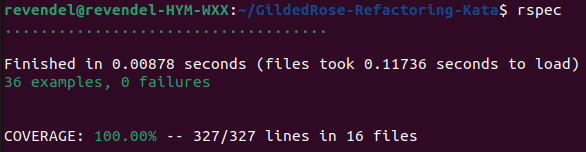
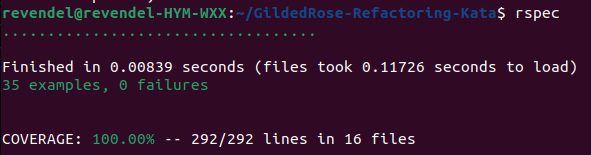
add ability to modify original array

Changed region(s): [[0.0, 0.3158, 1.0, 1.0], [0.0, 0.0, 0.9522, 0.1316], [0.0, 0.1842, 0.5529, 0.2895]]

diff --git a/spec/gilded_rose_spec.rb b/spec/gilded_rose_spec.rb
@@ -9,10 +9,10 @@ describe GildedRose do
     items = [Item.new('foo', 0, 0)]
     parsed_item = GildedRose.new(items).items[0]
 
-    expect(parsed_item.class).to eq CommonItem
-    expect(parsed_item.name).to eq 'foo'
-    expect(parsed_item.sell_in).to eq 0
-    expect(parsed_item.quality).to eq 0
+    expect(parsed_item[:type]).to eq CommonItem
+    expect(parsed_item[:item].name).to eq 'foo'
+    expect(parsed_item[:item].sell_in).to eq 0
+    expect(parsed_item[:item].quality).to eq 0
   end
 
   it '#add_item' do
@@ -21,8 +21,8 @@ describe GildedRose do
     gilded_rose.add_item Item.new('Aged Brie', 2, 0)
 
     expect(gilded_rose.items.size).to eq 2
-    expect(gilded_rose.items[1].class).to eq AgedBrieItem
-    expect(gilded_rose.items[1].name).to eq 'Aged Brie'
+    expect(gilded_rose.items[1][:type]).to eq AgedBrieItem
+    expect(gilded_rose.items[1][:item].name).to eq 'Aged Brie'
   end
 
   it '#update_quality' do
@@ -37,60 +37,42 @@ describe GildedRose do
       Item.new('Backstage passes to a TAFKAL80ETC concert', 5, 49),
       Item.new('Conjured Mana Cake', 3, 6)
     ]
-    parsed_items = GildedRose.new(items).update_quality
+    gr_items = GildedRose.new(items).update_quality
 
-    item0 = parsed_items[0]
-    expect(item0.class).to eq CommonItem
-    expect(item0.name).to eq '+5 Dexterity Vest'
-    expect(item0.sell_in).to eq 9
-    expect(item0.quality).to eq 19
+    expect(gr_items[0][:type]).to eq CommonItem
+    expect(items[0].sell_in).to eq 9
+    expect(items[0].quality).to eq 19
 
-    item1 = parsed_items[1]
-    expect(item1.class).to eq AgedBrieItem
-    expect(item1.name).to eq 'Aged Brie'
-    expect(item1.sell_in).to eq 1
-    expect(item1.quality).to eq 1
+    expect(gr_items[1][:type]).to eq AgedBrieItem
+    expect(items[1].sell_in).to eq 1
+    expect(items[1].quality).to eq 1
 
-    item2 = parsed_items[2]
-    expect(item2.class).to eq CommonItem
-    expect(item2.name).to eq 'Elixir of the Mongoose'
-    expect(item2.sell_in).to eq 4
-    expect(item2.quality).to eq 6
+    expect(gr_items[2][:type]).to eq CommonItem
+    expect(items[2].sell_in).to eq 4
+    expect(items[2].quality).to eq 6
 
-    item3 = parsed_items[3]
-    expect(item3.class).to eq LegendaryItem
-    expect(item3.name).to eq 'Sulfuras, Hand of Ragnaros'
-    expect(item3.sell_in).to be_nil
-    expect(item3.quality).to eq 80
+    expect(gr_items[3][:type]).to eq LegendaryItem
+    expect(items[3].sell_in).to be_nil
+    expect(items[3].quality).to eq 80
 
-    item4 = parsed_items[4]
-    expect(item4.class).to eq LegendaryItem
-    expect(item4.name).to eq 'Sulfuras, Hand of Ragnaros'
-    expect(item4.sell_in).to be_nil
-    expect(item4.quality).to eq 80
+    expect(gr_items[4][:type]).to eq LegendaryItem
+    expect(items[4].sell_in).to be_nil
+    expect(items[4].quality).to eq 80
 
-    item5 = parsed_items[5]
-    expect(item5.class).to eq BackstagePassesItem
-    expect(item5.name).to eq 'Backstage passes to a TAFKAL80ETC concert'
-    expect(item5.sell_in).to eq 14
-    expect(item5.quality).to eq 21
+    expect(gr_items[5][:type]).to eq BackstagePassesItem
+    expect(items[5].sell_in).to eq 14
+    expect(items[5].quality).to eq 21
 
-    item6 = parsed_items[6]
-    expect(item6.class).to eq BackstagePassesItem
-    expect(item6.name).to eq 'Backstage passes to a TAFKAL80ETC concert'
-    expect(item6.sell_in).to eq 9
-    expect(item6.quality).to eq 50
+    expect(gr_items[6][:type]).to eq BackstagePassesItem
+    expect(items[6].sell_in).to eq 9
+    expect(items[6].quality).to eq 50
 
-    item7 = parsed_items[7]
-    expect(item7.class).to eq BackstagePassesItem
-    expect(item7.name).to eq 'Backstage passes to a TAFKAL80ETC concert'
-    expect(item7.sell_in).to eq 4
-    expect(item7.quality).to eq 50
+    expect(gr_items[7][:type]).to eq BackstagePassesItem
+    expect(items[7].sell_in).to eq 4
+    expect(items[7].quality).to eq 50
 
-    item8 = parsed_items[8]
-    expect(item8.class).to eq ConjuredItem
-    expect(item8.name).to eq 'Conjured Mana Cake'
-    expect(item8.sell_in).to eq 2
-    expect(item8.quality).to eq 4
+    expect(gr_items[8][:type]).to eq ConjuredItem
+    expect(items[8].sell_in).to eq 2
+    expect(items[8].quality).to eq 4
   end
 end

diff --git a/spec/types_parser_spec.rb b/spec/types_parser_spec.rb
@@ -38,31 +38,4 @@ describe TypesParser do
       expect(klass).to eq LegendaryItem
     end
   end
-
-  it '#parse_items' do
-    items = [
-      Item.new(name = 'Aged Brie', sell_in = 2, quality = 0),
-      Item.new(name = 'Elixir of the Mongoose', sell_in = 5, quality = 7),
-      Item.new(name = 'Sulfuras, Hand of Ragnaros', sell_in = 0, quality = 80)
-    ]
-    parsed_items = TypesParser.parse_items(items)
-    
-    item0 = parsed_items[0]
-    expect(item0.class).to eq AgedBrieItem
-    expect(item0.name).to eq 'Aged Brie'
-    expect(item0.sell_in).to eq 2
-    expect(item0.quality).to eq 0
-
-    item1 = parsed_items[1]
-    expect(item1.class).to eq CommonItem
-    expect(item1.name).to eq 'Elixir of the Mongoose'
-    expect(item1.sell_in).to eq 5
-    expect(item1.quality).to eq 7
-
-    item2 = parsed_items[2]
-    expect(item2.class).to eq LegendaryItem
-    expect(item2.name).to eq 'Sulfuras, Hand of Ragnaros'
-    expect(item2.sell_in).to eq nil
-    expect(item2.quality).to eq 80
-  end
 end

diff --git a/lib/gilded_rose.rb b/lib/gilded_rose.rb
@@ -2,15 +2,24 @@ class GildedRose
   attr_reader :items
 
   def initialize(items)
-    # полученные объекты класса Item заменяем на объекты его потомков
-    @items = TypesParser.parse_items(items)
+    # для каждого товара храним его оригинальный объект и распарсенный для него тип
+
+    @items = items.map { |item| { item:, type: TypesParser.fetch_type(item.name) } }
   end
 
   def add_item(item)
-    @items += TypesParser.parse_items([item])
+    @items << { item:, type: TypesParser.fetch_type(item.name) }
   end
 
   def update_quality
-    @items.each(&:next_day)
+    @items.each do |item_data|
+      item = item_data[:item]
+
+      descendant = item_data[:type].new(item.name, item.sell_in, item.quality)
+      descendant.next_day
+
+      item.sell_in = descendant.sell_in
+      item.quality = descendant.quality
+    end
   end
 end

diff --git a/lib/types_parser.rb b/lib/types_parser.rb
@@ -14,13 +14,6 @@ module TypesParser
     'Sulfuras' => LegendaryItem
   }.freeze
 
-  def self.parse_items(items)
-    items.map do |item|
-      klass = fetch_type(item.name)
-      klass.new(item.name, item.sell_in, item.quality)
-    end
-  end
-
   def self.fetch_type(name)
     TYPES.each_pair do |type, klass|
       return klass if name.start_with?(type)

diff --git a/texttest_fixture.rb b/texttest_fixture.rb
@@ -24,7 +24,7 @@ gilded_rose = GildedRose.new items
 (0...days).each do |day|
   puts "-------- day #{day} --------"
   puts 'name, sellIn, quality'
-  gilded_rose.items.each do |item|
+  items.each do |item|
     puts item
   end
   puts ''

diff --git a/README.md b/README.md
@@ -7,7 +7,7 @@
   Исходный код программы помещен в файл [gilded_rose_original.rb](https://github.com/revendel1/GildedRose-Refactoring-Kata/blob/main/gilded_rose_original.rb). Основными проблемами данного кода является избыточная длина и глубокая вложенность метода `update_quality` в классе `GildedRose` из-за большого количества различных условий. Кроме того, серьезным недостатком является то, что вся бизнес-логика проекта сосредоточена в этом одном методе. В ходе анализа предметной области задачи установлено, что существует несколько типов товаров, каждый из которых обладает своими собственными чертами (разная величина изменения значения атрибута `quantity`) и в то же время они все имеют что-то общее (одинаковые атрибуты). Это наталкивает на идею использования концепции наследования между классами, созданными для каждого из данных в условии типов товаров, где каждый класс содержит свою собственную бизнес-логику. В такой архитектуре исходный класс `Item` рассматривается, как класс-родитель. Для него реализовано два потомка, первый из которых, `CommonItem`, нужен для обычных товаров у которых уменьшается срок годности и изменяется значение величины качества товара. Второй потомок `LegendaryItem` нужен для легендарных товаров, у которых не меняется качество и которые не имеют срока годности.  
 От класса `CommonItem` в свою очередь наследуются классы для товаров `Aged Brie`, `Backstage passes` и `Conjured` для которых является верным, что значение срока годности каждый день уменьшается на одно и то же значение что и у класса `CommonItem`, однако значения их качеств `quantity` меняются своими собственными способами.  
 Иерархия созданной модели классов [представлена ниже](https://github.com/revendel1/GildedRose-Refactoring-Kata/tree/main#диаграмма-классов).  
-Работа с проектом реализуется путем создания объекта класса `GildedRose`, представляющего собой нашу гостиницу, имеющую свою собственную лавку товаров. В конструктор создаваемого объекта нужно передать массив объектов класса `Items`. Для каждого элемента данного массива с помощью модуля `TypesParser` ищется соответствующий ему класс разработанной иерархии, содержащий всю необходимую бизнес-логику для данного элемента. Данное решение о парсинге полученных элементов принято с целью не изменять существующее соглашение об инициализации объекта класса `GildedRose`, конструктор которого в исходном коде принимает в качестве своего единственного аргумента массив объектов класса `Item`. С помощью метода `update_quality` можно обновить значение качества и срока годности для каждого из товаров гостиницы `GildedRose`. Также реализована возможность добавления нового товара (метод `add_item` класса `GildedRose`) в ходе работы над заданием по добавлению нового функционала в случае, если ассортимент товаров гостиницы будет и в дальнейшем продолжать меняться (в условии, например, сказано что гостиница нашла себе поставщика нового типа товаров). Геттер для атрибута items добавлен с целью удобства получения текущих значений товаров гостиницы в случае, если сеть гостиниц будет в дальнейшем расширяться и в связи с этим будут созданы новые экземпляры класса `GildedRose`, что сделает проблематичным обращение к нужным объектам класса `Item` или его потомков.  
+Работа с проектом реализуется путем создания объекта класса `GildedRose`, представляющего собой нашу гостиницу, имеющую свою собственную лавку товаров. В конструктор создаваемого объекта нужно передать массив объектов класса `Items`. Для каждого элемента данного массива с помощью модуля `TypesParser` ищется соответствующий ему класс разработанной иерархии, содержащий всю необходимую бизнес-логику для данного элемента, после чего данный элемент вместе с найденным для него типом сохраняется в виде хеша в атрибут `items`. Данное решение о парсинге полученных при инициализации элементов принято с целью дальнейшей возможности использовать при работе с ними реализованную для них собственную бизнес-логику. При этом мы все также меняем исходный массив объектов класса Item.  С помощью метода `update_quality` можно обновить значение качества и срока годности для каждого из товаров гостиницы `GildedRose`. Также реализована возможность добавления нового товара (метод `add_item` класса `GildedRose`) в ходе работы над заданием по добавлению нового функционала в случае, если ассортимент товаров гостиницы будет и в дальнейшем продолжать меняться (в условии, например, сказано что гостиница нашла себе поставщика нового типа товаров).
 Преимуществом созданной архитектуры классов является соответствие принципу открытости-закрытости и принципу подстановки Лисков (open-closed и Liskov substitution principles от принципов SOLID), которым не соответствовал исходный код, в котором перед каждым обновлением атрибутов проверялся тип изменяемого объекта, а при появлении нового типа товаров пришлось бы менять исходную функцию. В созданной же в ходе работы над данным проектом архитектуре, полностью отпадает необходимость изменять код класса `Gilded rose`. Вместо этого достаточно создать новый класс, наследуемый от класса `CommonItem` и реализовать в его методе `update_quanity` всю логику для нового товара и после этого добавить имя нового класса в хэш `TYPES` модуля `TypesParser`. В случае, если новый товар соответствует общим правилам для легендарных товаров(не имеет срока годности и его качество константно) или обычных товаров(срок годности и качество каждый день уменьшается на единицу и качество лежит в диапазоне от 0 до 50), то нет никакого смысла менять что-то в проекте.
 <br><br>
 ## Окружение
